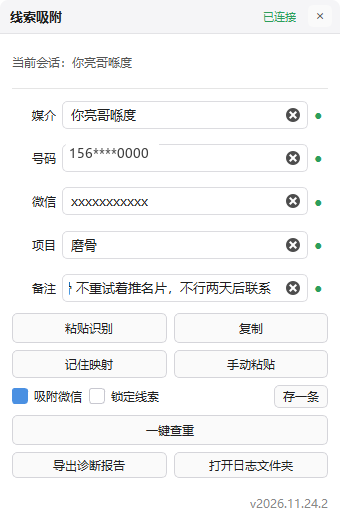
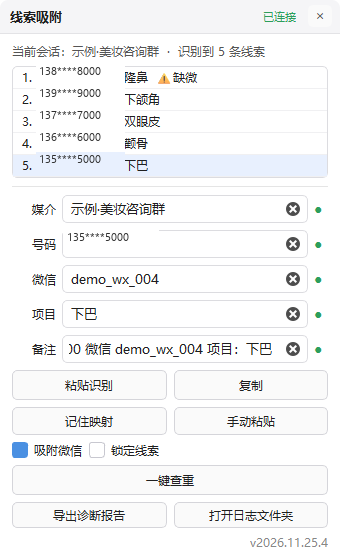
Update real screenshot to v2026.11.25.4

diff --git a/index.html b/index.html
@@ -936,7 +936,7 @@
               <div class="shot-annot annot-a"><span class="dot"></span>五字段自动填好</div>
               <div class="shot-annot annot-b"><span class="dot yellow"></span>缺字段标黄</div>
             </div>
-            <p class="shot-foot">当前会话示例 · 识别到 <b>2 条线索</b> · 媒介 / 号码 / 微信 / 项目 / 备注</p>
+            <p class="shot-foot">当前会话示例 · 识别到 <b>5 条线索</b> · 媒介 / 号码 / 微信 / 项目 / 备注</p>
           </article>
           <article class="shot-card reveal" data-d="1">
             <div class="shot-head">
